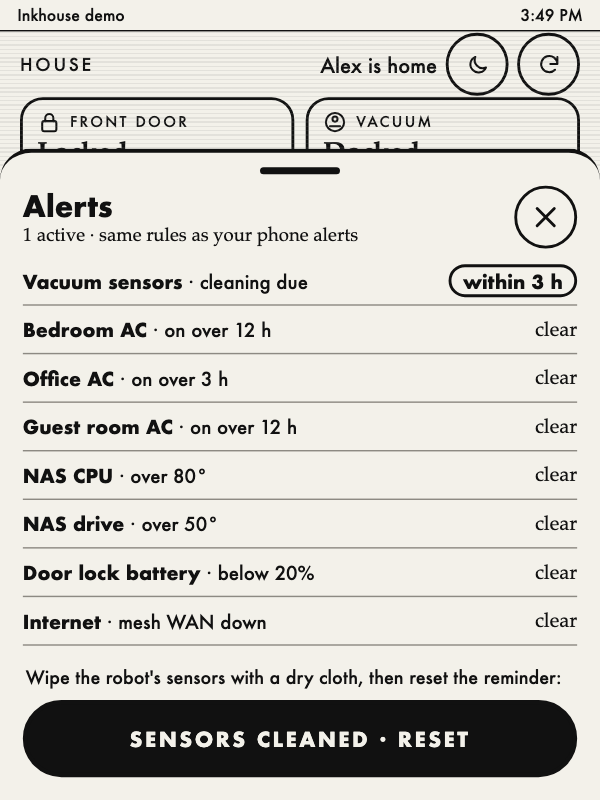
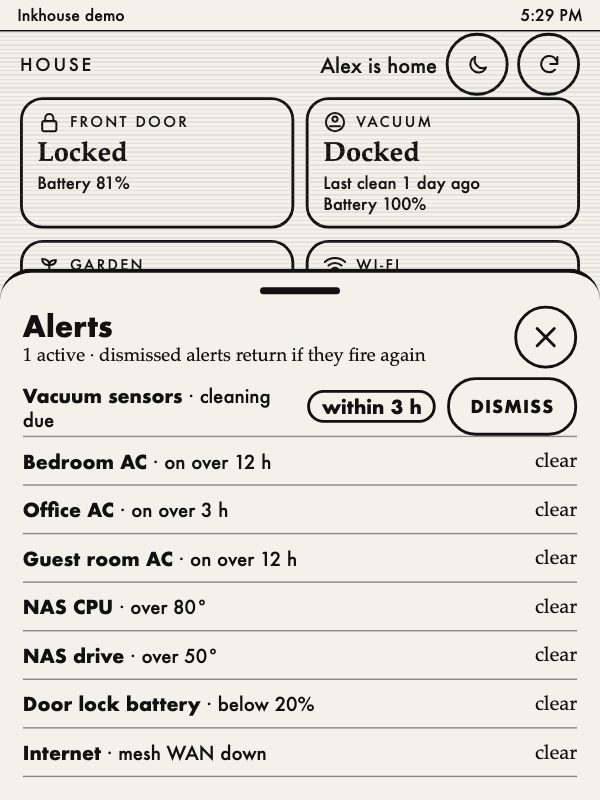
Cover sleep switch on the Kindle and dismissable alerts
- inkhouse.sh: closing the cover sleeps the Kindle with the front light off,
  opening it wakes the panel; sleep after 10 min without touch; power button
  leaves only while awake; one event queue with a self-check and a
  power-button fallback; log in documents/inkhouse.log
- Alerts: Dismiss hides an active alert and its badge until it fires again;
  replaces the vacuum sensor reset button

Changed region(s): [[0.0, 0.1875, 1.0, 1.0], [0.87, 0.0, 0.9, 0.0312]]

diff --git a/docs/demo/index.html b/docs/demo/index.html
@@ -107,6 +107,8 @@ table.rooms { width:100%; border-collapse:collapse; font-size:13px; }
 .alist { list-style:none; margin:6px 0 0; padding:0; }
 .alist li { display:flex; justify-content:space-between; align-items:center; min-height:34px; border-bottom:1px solid #8d8a83; font-size:13px; }
 .alist .ok { font:14px Palatino, Georgia, serif; }
+.alist .rt { display:flex; align-items:center; }
+.alist .dismiss { font:600 12px Futura, "Century Gothic", sans-serif; letter-spacing:.06em; text-transform:uppercase; border:2px solid #111; border-radius:20px; padding:11px 14px; margin-left:8px; cursor:pointer; white-space:nowrap; }
 .alist .hot { font-weight:600; border:2px solid #111; border-radius:12px; padding:1px 8px; margin-left:8px; white-space:nowrap; }
 .dialog { position:absolute; left:26px; right:26px; top:150px; background:#f3f1ea; border:3px solid #111; border-radius:20px; padding:18px 16px 16px; box-shadow:8px 8px 0 #111; }
 .dialog h3 { margin:0 0 4px; font:600 19px Futura, sans-serif; }
@@ -289,10 +291,21 @@ function alerts() {
   if (UI.lock && UI.lock.battery) { var b = N(UI.lock.battery); out.push({ name: 'Door lock battery', rule: 'below ' + al.lockBattery + '%', hot: b !== null && b < al.lockBattery, now: b + '%' }); }
   if (UI.wifi) out.push({ name: 'Internet', rule: 'mesh WAN down', hot: S(UI.wifi.wan) === 'off', now: 'down' });
   if (UI.vacuum && UI.vacuum.sensorDirty) { var sd = N(UI.vacuum.sensorDirty); out.push({ name: 'Vacuum sensors', rule: 'cleaning due', hot: sd !== null && sd <= al.vacuumSensorHours, now: 'within ' + Math.round(sd) + ' h' }); }
-  out.sort(function (a, b) { return (b.hot ? 1 : 0) - (a.hot ? 1 : 0); });
+  // A dismissed alert stays dismissed until it clears; the next time it fires it counts again
+  var ack = loadAck(), changed = false;
+  for (i = 0; i < out.length; i++) {
+    if (out[i].hot && ack[out[i].name]) out[i].acked = true;
+    else if (!out[i].hot && ack[out[i].name]) { delete ack[out[i].name]; changed = true; }
+  }
+  if (changed) saveAck(ack);
+  out.sort(function (a, b) { return rank(b) - rank(a); });
   return out;
 }
-function hotCount(list) { var n = 0; for (var i = 0; i < list.length; i++) if (list[i].hot) n++; return n; }
+function rank(a) { return a.hot ? (a.acked ? 1 : 2) : 0; }
+function loadAck() { try { return JSON.parse(localStorage.getItem('ink-ack') || '{}'); } catch (e) { return {}; } }
+function saveAck(a) { try { localStorage.setItem('ink-ack', JSON.stringify(a)); } catch (e) {} }
+function hotCount(list) { var n = 0; for (var i = 0; i < list.length; i++) if (list[i].hot && !list[i].acked) n++; return n; }
+function ackedCount(list) { var n = 0; for (var i = 0; i < list.length; i++) if (list[i].acked) n++; return n; }
 function secondsUntil(hhmm) {
   var p = hhmm.split(':'), d = L(), t = new Date(d.getTime());
   t.setHours(+p[0], +p[1], 0, 0);
@@ -383,7 +396,7 @@ function housePage(al) {
   }
   var hot = hotCount(al), first = al[0];
   h += '<div class="card' + (hot ? ' warn' : '') + '" data-a="open" data-id="alerts"><div class="ct">' + ic('bell', 1) + 'Alerts · ' + hot + '</div>' +
-    (hot ? '<div class="cv">' + esc(first.name) + '</div><div class="cs">' + esc(first.now) + '<br>' + (al.length - hot) + ' more all clear</div>' : '<div class="cv">All clear</div><div class="cs">' + al.length + ' rules watched</div>') + '</div>';
+    (hot ? '<div class="cv">' + esc(first.name) + '</div><div class="cs">' + esc(first.now) + '<br>' + (al.length - hot) + ' more all clear</div>' : '<div class="cv">All clear</div><div class="cs">' + al.length + ' rules watched' + (ackedCount(al) ? '<br>' + ackedCount(al) + ' dismissed' : '') + '</div>') + '</div>';
   var p = S(UI.person);
   return '<div class="page' + (view.page === 'house' ? ' on' : '') + '">' + head('House', '<span>' + (p ? esc(UI.personName) + ' is ' + (p === 'home' ? 'home' : 'away') : '') + '</span>') + '<div class="cards">' + h + '</div></div>';
 }
@@ -468,11 +481,13 @@ function sheetHtml(al) {
       '<div class="pill" data-a="open" data-id="' + sh + '">' + ic('refresh', 1) + 'New still</div>';
   } else if (sh === 'alerts') {
     var li = '';
-    for (i = 0; i < al.length; i++) li += '<li><span><b>' + esc(al[i].name) + '</b> · ' + esc(al[i].rule) + '</span>' + (al[i].hot ? '<span class="hot">' + esc(al[i].now) + '</span>' : '<span class="ok">clear</span>') + '</li>';
-    var vacHot = false;
-    for (i = 0; i < al.length; i++) if (al[i].name === 'Vacuum sensors' && al[i].hot) vacHot = true;
-    body = top('Alerts', hotCount(al) + ' active · same rules as your phone alerts') + '<ul class="alist">' + li + '</ul>' +
-      (vacHot && UI.vacuum.resetSensor ? '<div class="vline" style="margin:14px 2px 8px">Wipe the robot\'s sensors with a dry cloth, then reset the reminder:</div><div class="pill" data-a="vreset">Sensors cleaned · reset</div>' : '');
+    for (i = 0; i < al.length; i++) {
+      var a2 = al[i], right = !a2.hot ? '<span class="ok">clear</span>'
+        : a2.acked ? '<span class="ok">' + esc(a2.now) + ' · dismissed</span>'
+        : '<span class="hot">' + esc(a2.now) + '</span><span class="dismiss" data-a="ack" data-v="' + esc(a2.name) + '">Dismiss</span>';
+      li += '<li><span><b>' + esc(a2.name) + '</b> · ' + esc(a2.rule) + '</span><span class="rt">' + right + '</span></li>';
+    }
+    body = top('Alerts', hotCount(al) + ' active' + (ackedCount(al) ? ' · ' + ackedCount(al) + ' dismissed' : '') + ' · dismissed alerts return if they fire again') + '<ul class="alist">' + li + '</ul>';
   }
   return '<div class="scrim" data-a="close"></div><div class="sheet"><div class="grab"></div>' + body + '</div>';
 }
@@ -558,7 +573,7 @@ function tap(a, id, v) {
       for (i = 0; i < UI.vacuum.settings.length; i++) { var st = UI.vacuum.settings[i]; if (!bad(S(st.entity)) && S(st.entity) !== st.usual) act(st.entity, 'select', st.usual); }
       return;
     case 'vacStart': act(UI.vacuum.entity, 'start'); return;
-    case 'vreset': act(UI.vacuum.resetSensor, 'press'); return;
+    case 'ack': var ak = loadAck(); ak[v] = true; saveAck(ak); break;
     case 'vshort': act(UI.vacuum.shortcut.entity, 'press'); return;
     case 'vacDock': act(UI.vacuum.entity, 'dock'); return;
     case 'dprog': dish.prog = v; break;

diff --git a/public/index.html b/public/index.html
@@ -107,6 +107,8 @@ table.rooms { width:100%; border-collapse:collapse; font-size:13px; }
 .alist { list-style:none; margin:6px 0 0; padding:0; }
 .alist li { display:flex; justify-content:space-between; align-items:center; min-height:34px; border-bottom:1px solid #8d8a83; font-size:13px; }
 .alist .ok { font:14px Palatino, Georgia, serif; }
+.alist .rt { display:flex; align-items:center; }
+.alist .dismiss { font:600 12px Futura, "Century Gothic", sans-serif; letter-spacing:.06em; text-transform:uppercase; border:2px solid #111; border-radius:20px; padding:11px 14px; margin-left:8px; cursor:pointer; white-space:nowrap; }
 .alist .hot { font-weight:600; border:2px solid #111; border-radius:12px; padding:1px 8px; margin-left:8px; white-space:nowrap; }
 .dialog { position:absolute; left:26px; right:26px; top:150px; background:#f3f1ea; border:3px solid #111; border-radius:20px; padding:18px 16px 16px; box-shadow:8px 8px 0 #111; }
 .dialog h3 { margin:0 0 4px; font:600 19px Futura, sans-serif; }
@@ -288,10 +290,21 @@ function alerts() {
   if (UI.lock && UI.lock.battery) { var b = N(UI.lock.battery); out.push({ name: 'Door lock battery', rule: 'below ' + al.lockBattery + '%', hot: b !== null && b < al.lockBattery, now: b + '%' }); }
   if (UI.wifi) out.push({ name: 'Internet', rule: 'mesh WAN down', hot: S(UI.wifi.wan) === 'off', now: 'down' });
   if (UI.vacuum && UI.vacuum.sensorDirty) { var sd = N(UI.vacuum.sensorDirty); out.push({ name: 'Vacuum sensors', rule: 'cleaning due', hot: sd !== null && sd <= al.vacuumSensorHours, now: 'within ' + Math.round(sd) + ' h' }); }
-  out.sort(function (a, b) { return (b.hot ? 1 : 0) - (a.hot ? 1 : 0); });
+  // A dismissed alert stays dismissed until it clears; the next time it fires it counts again
+  var ack = loadAck(), changed = false;
+  for (i = 0; i < out.length; i++) {
+    if (out[i].hot && ack[out[i].name]) out[i].acked = true;
+    else if (!out[i].hot && ack[out[i].name]) { delete ack[out[i].name]; changed = true; }
+  }
+  if (changed) saveAck(ack);
+  out.sort(function (a, b) { return rank(b) - rank(a); });
   return out;
 }
-function hotCount(list) { var n = 0; for (var i = 0; i < list.length; i++) if (list[i].hot) n++; return n; }
+function rank(a) { return a.hot ? (a.acked ? 1 : 2) : 0; }
+function loadAck() { try { return JSON.parse(localStorage.getItem('ink-ack') || '{}'); } catch (e) { return {}; } }
+function saveAck(a) { try { localStorage.setItem('ink-ack', JSON.stringify(a)); } catch (e) {} }
+function hotCount(list) { var n = 0; for (var i = 0; i < list.length; i++) if (list[i].hot && !list[i].acked) n++; return n; }
+function ackedCount(list) { var n = 0; for (var i = 0; i < list.length; i++) if (list[i].acked) n++; return n; }
 function secondsUntil(hhmm) {
   var p = hhmm.split(':'), d = L(), t = new Date(d.getTime());
   t.setHours(+p[0], +p[1], 0, 0);
@@ -382,7 +395,7 @@ function housePage(al) {
   }
   var hot = hotCount(al), first = al[0];
   h += '<div class="card' + (hot ? ' warn' : '') + '" data-a="open" data-id="alerts"><div class="ct">' + ic('bell', 1) + 'Alerts · ' + hot + '</div>' +
-    (hot ? '<div class="cv">' + esc(first.name) + '</div><div class="cs">' + esc(first.now) + '<br>' + (al.length - hot) + ' more all clear</div>' : '<div class="cv">All clear</div><div class="cs">' + al.length + ' rules watched</div>') + '</div>';
+    (hot ? '<div class="cv">' + esc(first.name) + '</div><div class="cs">' + esc(first.now) + '<br>' + (al.length - hot) + ' more all clear</div>' : '<div class="cv">All clear</div><div class="cs">' + al.length + ' rules watched' + (ackedCount(al) ? '<br>' + ackedCount(al) + ' dismissed' : '') + '</div>') + '</div>';
   var p = S(UI.person);
   return '<div class="page' + (view.page === 'house' ? ' on' : '') + '">' + head('House', '<span>' + (p ? esc(UI.personName) + ' is ' + (p === 'home' ? 'home' : 'away') : '') + '</span>') + '<div class="cards">' + h + '</div></div>';
 }
@@ -467,11 +480,13 @@ function sheetHtml(al) {
       '<div class="pill" data-a="open" data-id="' + sh + '">' + ic('refresh', 1) + 'New still</div>';
   } else if (sh === 'alerts') {
     var li = '';
-    for (i = 0; i < al.length; i++) li += '<li><span><b>' + esc(al[i].name) + '</b> · ' + esc(al[i].rule) + '</span>' + (al[i].hot ? '<span class="hot">' + esc(al[i].now) + '</span>' : '<span class="ok">clear</span>') + '</li>';
-    var vacHot = false;
-    for (i = 0; i < al.length; i++) if (al[i].name === 'Vacuum sensors' && al[i].hot) vacHot = true;
-    body = top('Alerts', hotCount(al) + ' active · same rules as your phone alerts') + '<ul class="alist">' + li + '</ul>' +
-      (vacHot && UI.vacuum.resetSensor ? '<div class="vline" style="margin:14px 2px 8px">Wipe the robot\'s sensors with a dry cloth, then reset the reminder:</div><div class="pill" data-a="vreset">Sensors cleaned · reset</div>' : '');
+    for (i = 0; i < al.length; i++) {
+      var a2 = al[i], right = !a2.hot ? '<span class="ok">clear</span>'
+        : a2.acked ? '<span class="ok">' + esc(a2.now) + ' · dismissed</span>'
+        : '<span class="hot">' + esc(a2.now) + '</span><span class="dismiss" data-a="ack" data-v="' + esc(a2.name) + '">Dismiss</span>';
+      li += '<li><span><b>' + esc(a2.name) + '</b> · ' + esc(a2.rule) + '</span><span class="rt">' + right + '</span></li>';
+    }
+    body = top('Alerts', hotCount(al) + ' active' + (ackedCount(al) ? ' · ' + ackedCount(al) + ' dismissed' : '') + ' · dismissed alerts return if they fire again') + '<ul class="alist">' + li + '</ul>';
   }
   return '<div class="scrim" data-a="close"></div><div class="sheet"><div class="grab"></div>' + body + '</div>';
 }
@@ -557,7 +572,7 @@ function tap(a, id, v) {
       for (i = 0; i < UI.vacuum.settings.length; i++) { var st = UI.vacuum.settings[i]; if (!bad(S(st.entity)) && S(st.entity) !== st.usual) act(st.entity, 'select', st.usual); }
       return;
     case 'vacStart': act(UI.vacuum.entity, 'start'); return;
-    case 'vreset': act(UI.vacuum.resetSensor, 'press'); return;
+    case 'ack': var ak = loadAck(); ak[v] = true; saveAck(ak); break;
     case 'vshort': act(UI.vacuum.shortcut.entity, 'press'); return;
     case 'vacDock': act(UI.vacuum.entity, 'dock'); return;
     case 'dprog': dish.prog = v; break;

diff --git a/README.md b/README.md
@@ -10,7 +10,7 @@ A touch control panel for Home Assistant on a jailbroken Kindle. Big e-ink butto
 
 | Room sheet | Vacuum | Dishwasher | Alerts |
 |---|---|---|---|
-| ![Room sheet](docs/screenshots/room.png) | ![Vacuum sheet](docs/screenshots/vacuum.png) | ![Dishwasher sheet](docs/screenshots/dishwasher.png) | ![Alerts sheet](docs/screenshots/alerts.png) |
+| ![Room sheet](docs/screenshots/room.png) | ![Vacuum sheet](docs/screenshots/vacuum.png) | ![Dishwasher sheet](docs/screenshots/dishwasher.png) | ![Alerts sheet with a Dismiss button](docs/screenshots/alerts.png) |
 
 | Tap feedback | Half-degree steps | Confirm unlock | Confirm all off |
 |---|---|---|---|
@@ -33,7 +33,7 @@ An old Kindle makes a great wall or bedside panel: it costs almost nothing, last
 - **Three pages:** Control (AC tiles, all AC off, door, vacuum, dishwasher, routines), House (door, vacuum, garden, Wi-Fi, cameras, dishwasher, alerts) and Energy (AC energy today, room temperatures and humidity).
 - **Room sheet:** big setpoint with − / + buttons in the AC's own step (for example 0.5°), mode and fan speed.
 - **Usual settings:** the vacuum and dishwasher sheets underline the settings you normally use, so one tap starts your usual run. A vacuum app shortcut can be its own button.
-- **Alerts:** AC left on too long, NAS too hot, low lock battery, internet down, vacuum maintenance due, with a reset button where it makes sense.
+- **Alerts:** AC left on too long, NAS too hot, low lock battery, internet down, vacuum maintenance due. Dismiss one and its badge goes away until it fires again.
 - **Camera stills on tap,** resized by Home Assistant to about 15–20 KB.
 - **Made for e-ink:** black, paper and one gray. No animation (no ghosting). Every tap target is at least about 10 mm. Idle clock after 2 minutes. Night mode.
 - **Fast:** the page is one file, about 14 KB compressed. State updates are about 1.5 KB and arrive within a second of a change (long polling). Taps show "sending" at once, then Home Assistant confirms.
@@ -75,7 +75,11 @@ Open `http://<server-ip>:8190/health`; it should say `"ha":true`. Then set `DRY_
 Any jailbroken Kindle with a browser (see [kindlemodding.org](https://kindlemodding.org/)). Developed on a Kindle Paperwhite 4 (10th gen), firmware 5.18.1.
 
 - **Quick:** open the Kindle's web browser at `http://<server-ip>:8190/`.
-- **Full screen:** copy `kindle/inkhouse.sh` and `kindle/inkhouse_stop.sh` to the Kindle's `documents/` folder, set `PANEL_URL` in `inkhouse.sh`, and open **Inkhouse** from the library. It hides the Kindle UI, opens the panel in the built-in browser with no toolbar, and keeps the screen awake. Press the power button to leave; the Kindle home screen takes up to a minute to come back. **Inkhouse - stop** is a rescue if that ever fails (or hold power about 40 seconds to restart).
+- **Full screen:** copy `kindle/inkhouse.sh` and `kindle/inkhouse_stop.sh` to the Kindle's `documents/` folder, set `PANEL_URL` in `inkhouse.sh`, and open **Inkhouse** from the library. It hides the Kindle UI and opens the panel in the built-in browser with no toolbar. Starting takes about 20 seconds, so the idea is to leave it running and use the cover:
+  - **Close the cover:** front light off, the Kindle sleeps, and the screen keeps the last image at no power cost. **Open it:** the panel wakes in a moment.
+  - **No touch for 10 minutes** (`IDLE_MIN`): it sleeps too. Open the cover or press power to wake it.
+  - **Press power while the panel is awake:** leave Inkhouse; the Kindle home screen takes up to a minute to come back.
+  - Everything is logged to `documents/inkhouse.log`. **Inkhouse - stop** is a rescue if leaving ever fails (or hold power about 15 seconds to restart the Kindle).
 
 ## Configuration
 
